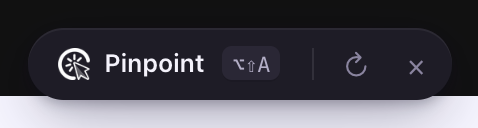
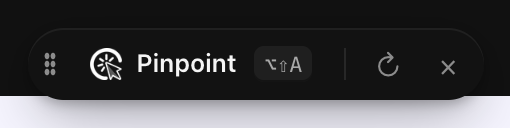
Ink and lime, and a bar you can put anywhere
The overlay switches from graphite + violet to ink panels and a lime
accent, with sky blue for the agent. Lime is faint on a white page, so
the crop marks, the hairline around a pick and the pins carry a thin ink
edge. The popup, the toolbar badge and the iOS picker follow.

The bar can now be dragged anywhere on the page by its grip (or the
pill itself). It stays there on that site, stored as a fraction of the
free space so a resize keeps it on screen and in proportion. A press
that moves less than 5px is still a click, and letting go of a drag
never toggles picking. Choosing a corner in the popup puts it back.

Moves are tracked on the window for the length of a press: a quick drag
leaves the bar within a few pixels, and the bar alone would never hear
about it.

Tests: a drag/persist/click regression test; 80/80 browser tests pass.

diff --git a/extension/content.js b/extension/content.js
@@ -31,23 +31,24 @@
   shadow.innerHTML = `
     <style>
       /* Pinpoint is a layer over somebody else's app, so it keeps one look of its own in every theme:
-         violet-tinted graphite, like an instrument laid on the page, with the brand violet as the
-         only accent and the agent's orange for anything the agent did. The one flourish is the
-         highlight — print crop marks, not a filled box — and the pins, which are numbered drops. */
+         ink panels and a lime accent that stands out on any page, with sky blue for anything the
+         agent did. Lime on a white page is faint, so the marks and pins carry a thin ink edge. The
+         one flourish is the highlight — print crop marks, not a filled box — and the numbered drops. */
       :host {
-        --graphite: #1e1c26;        /* surfaces */
-        --graphite-2: #2a2735;      /* wells, hovers */
-        --graphite-3: #37334a;      /* pressed, rules */
-        --paper: #f4f2fb;           /* text on graphite: 15.6:1 */
-        --paper-dim: #b3aec6;       /* secondary text: 8.4:1 */
-        --paper-faint: #8a849f;     /* hints: 5.0:1 */
-        --accent: #7c66f2;          /* the brand violet, lifted a step for graphite */
-        --accent-hi: #a594ff;       /* violet as text on graphite: 6.7:1 */
-        --accent-ink: #ffffff;
-        --agent: #f29a63;           /* the agent */
+        --graphite: #121212;        /* ink surfaces */
+        --graphite-2: #1f1f1f;      /* wells, hovers */
+        --graphite-3: #2d2d2d;      /* pressed, rules */
+        --paper: #f5f5f5;           /* text on ink: 17.8:1 */
+        --paper-dim: #a8a8a8;       /* secondary text: 8.5:1 */
+        --paper-faint: #8c8c8c;     /* hints: 5.9:1 */
+        --accent: #c6f432;          /* lime */
+        --accent-hi: #c6f432;       /* lime as text on ink: 15.5:1 */
+        --accent-ink: #121212;      /* text on lime */
+        --edge: #121212;            /* the ink edge that keeps lime readable on a white page */
+        --agent: #5cc8ff;           /* the agent */
         --ok: #5fd39a; --danger: #ff7a7f; --warn: #f2c14e;
         --line: rgba(255,255,255,.09);
-        --shadow: 0 1px 0 rgba(255,255,255,.06) inset, 0 10px 30px -6px rgba(10,6,30,.45), 0 2px 6px rgba(10,6,30,.25);
+        --shadow: 0 1px 0 rgba(255,255,255,.06) inset, 0 10px 30px -6px rgba(0,0,0,.45), 0 2px 6px rgba(0,0,0,.25);
[1 lines of base64/hex data omitted]
         --mono: ui-monospace, "SF Mono", SFMono-Regular, Menlo, Consolas, monospace;
         --sans: ui-sans-serif, -apple-system, BlinkMacSystemFont, "Segoe UI", Roboto, sans-serif;
@@ -64,8 +65,9 @@
 
       /* ---------- the highlight: crop marks ---------- */
       .hl { position: fixed; pointer-events: none; display: none; transition: none;
-            outline: 1px solid color-mix(in srgb, var(--accent) 55%, transparent); outline-offset: 2px; }
-      .hl .c { position: absolute; width: 14px; height: 14px; border: 0 solid var(--accent); }
+            outline: 1px solid var(--edge); outline-offset: 2px; box-shadow: 0 0 0 4px color-mix(in srgb, var(--accent) 45%, transparent); }
+      .hl .c { position: absolute; width: 14px; height: 14px; border: 0 solid var(--accent);
+               filter: drop-shadow(0 0 .6px var(--edge)) drop-shadow(0 0 .6px var(--edge)); }
       .hl .c.tl { left: -6px; top: -6px; border-left-width: 3px; border-top-width: 3px; }
       .hl .c.tr { right: -6px; top: -6px; border-right-width: 3px; border-top-width: 3px; }
       .hl .c.bl { left: -6px; bottom: -6px; border-left-width: 3px; border-bottom-width: 3px; }
@@ -79,8 +81,7 @@
       .hl .tag.below { top: auto; bottom: -34px; }
       .hl .tag b { font-weight: 600; color: var(--accent-hi); }
       /* Held, not hovered: the marks go solid ink-violet and the box gets a faint wash. */
-      .hl.selected { outline-color: var(--accent); background: color-mix(in srgb, var(--accent) 6%, transparent); }
-      .hl.selected .c { border-color: var(--accent-hi); }
+      .hl.selected { background: color-mix(in srgb, var(--accent) 10%, transparent); box-shadow: 0 0 0 4px var(--accent); }
       .hl.flash { animation: flash 1s var(--ease); }
       @keyframes flash { 30% { background: color-mix(in srgb, var(--accent) 22%, transparent) } }
 
@@ -94,6 +95,13 @@
       .dock.pos-br { left: auto; right: 16px; }
       .dock.pos-tl { bottom: auto; top: 16px; }
       .dock.pos-tr { bottom: auto; top: 16px; left: auto; right: 16px; }
+      /* Dragged somewhere: left/top come from the drag, the corner classes stop applying. */
+      .dock.free { right: auto !important; bottom: auto !important; }
+      .dock .grip { width: 14px; height: 28px; display: inline-grid; place-items: center; color: var(--paper-faint); cursor: grab; flex: none; }
+      .dock .grip::before { content: ""; width: 6px; height: 12px; background: radial-gradient(currentColor 1px, transparent 1.4px) 0 0 / 3px 4px; }
+      .dock.dragging, .dock.dragging * { cursor: grabbing !important; }
+      .dock.dragging { box-shadow: var(--shadow), 0 0 0 2px var(--accent); }
+      .dock.mini .grip, .dock.armed .grip { display: none; }
       .dock button { display: inline-flex; align-items: center; gap: 7px; border-radius: 999px; height: 28px; padding: 0 11px; line-height: 1; }
       .dock button:hover { background: var(--graphite-2); }
       .dock .toggle { font-weight: 600; letter-spacing: -.005em; }
@@ -130,17 +138,17 @@
          only Stop and the counter take clicks. */
       .dock.armed { pointer-events: none; background: var(--accent); color: var(--accent-ink); }
       .dock.armed .toggle:hover { background: transparent; }
-      .dock.armed .mark { filter: brightness(0) invert(1); animation: pulse 1.6s ease-in-out infinite; }
+      .dock.armed .mark { filter: brightness(0); animation: pulse 1.6s ease-in-out infinite; }
       @keyframes pulse { 50% { opacity: .5 } }
-      .dock.armed .hint { color: rgba(255,255,255,.85); }
+      .dock.armed .hint { color: color-mix(in srgb, var(--accent-ink) 80%, transparent); }
       .dock.armed .label, .dock.armed .sep, .dock.armed .close, .dock.armed .restart { display: none; }
       .dock .stop { display: none; }
       .dock.armed .stop { display: inline-flex; pointer-events: auto; background: var(--graphite); color: var(--paper); font-weight: 600; }
       .dock.armed .stop:hover { background: var(--graphite-2); }
       .dock.armed .stop kbd { background: var(--graphite-2); }
-      .dock.armed .count { pointer-events: auto; color: rgba(255,255,255,.8); }
-      .dock.armed .count b { color: #fff; }
-      .dock.armed .count:hover { background: rgba(255,255,255,.14); }
+      .dock.armed .count { pointer-events: auto; color: color-mix(in srgb, var(--accent-ink) 75%, transparent); }
+      .dock.armed .count b { color: var(--accent-ink); }
+      .dock.armed .count:hover { background: rgba(0,0,0,.1); }
       /* Bridge down: a small pill whose only job is to bring it back. */
       .dock .start { display: none; color: var(--paper-dim); font-weight: 500; }
       .dock.offline .start { display: inline-flex; }
@@ -152,7 +160,8 @@
 
       /* ---------- region marquee ---------- */
       .marquee { position: fixed; display: none; pointer-events: none; z-index: 3;
-                 border: 1px dashed var(--accent); background: color-mix(in srgb, var(--accent) 7%, transparent); }
+                 border: 2px dashed var(--edge); outline: 2px solid color-mix(in srgb, var(--accent) 70%, transparent);
+                 background: color-mix(in srgb, var(--accent) 12%, transparent); }
       .marquee .size { position: absolute; right: 0; bottom: -26px; font: 500 10.5px/1 var(--mono); background: var(--graphite);
                        color: var(--paper-dim); padding: 5px 7px; border-radius: 5px; white-space: nowrap; box-shadow: var(--shadow); }
 
@@ -191,18 +200,18 @@
       .pop .send { background: var(--accent); color: var(--accent-ink); display: inline-flex; gap: 8px; align-items: center;
                    border-radius: 8px; padding: 7px 8px 7px 13px; font: 600 12.5px var(--sans); }
       .pop .send:hover { background: color-mix(in srgb, var(--accent) 88%, #fff); }
-      .pop .send kbd { background: rgba(0,0,0,.2); color: #fff; box-shadow: none; }
+      .pop .send kbd { background: rgba(0,0,0,.14); color: var(--accent-ink); box-shadow: none; }
 
       /* ---------- pins: numbered drops, pointing at the corner they mark ---------- */
       .pin {
         position: fixed; z-index: 2; min-width: 22px; height: 22px; padding: 0 6px; pointer-events: auto; cursor: pointer;
         border-radius: 11px 11px 11px 3px; background: var(--accent); color: var(--accent-ink);
         font: 700 11px/22px var(--sans); text-align: center; font-variant-numeric: tabular-nums;
-        box-shadow: 0 0 0 2px #fff, 0 4px 12px rgba(30,20,90,.35);
+        box-shadow: 0 0 0 2px var(--edge), 0 4px 12px rgba(0,0,0,.3);
         transform: translate(-50%, -50%); transition: transform 120ms var(--ease);
       }
       .pin:hover { transform: translate(-50%, -50%) scale(1.12); }
-      .pin.watched { box-shadow: 0 0 0 2px #fff, 0 0 0 6px color-mix(in srgb, var(--agent) 55%, transparent), 0 4px 12px rgba(30,20,90,.35); }
+      .pin.watched { box-shadow: 0 0 0 2px var(--edge), 0 0 0 6px color-mix(in srgb, var(--agent) 60%, transparent), 0 4px 12px rgba(0,0,0,.3); }
       .pin.new { animation: drop 260ms var(--ease); }
       @keyframes drop { from { transform: translate(-50%, -90%) scale(.6); opacity: 0 } }
       .tip {
@@ -261,7 +270,7 @@
         font-size: 12.5px; box-shadow: var(--shadow); max-width: min(560px, calc(100vw - 32px));
         white-space: nowrap; overflow: hidden; text-overflow: ellipsis; animation: rise 180ms var(--ease);
       }
-      .toast::before { content: ""; display: inline-block; width: 7px; height: 7px; border-radius: 50%; background: var(--accent-hi); margin-right: 9px; vertical-align: 1px; }
+      .toast::before { content: ""; display: inline-block; width: 7px; height: 7px; border-radius: 50%; background: var(--accent); margin-right: 9px; vertical-align: 1px; }
       .toast.action { pointer-events: auto; cursor: pointer; }
       .toast.action::before { background: var(--agent); }
       .toast.action::after { content: " ›"; color: var(--paper-faint); }
@@ -275,6 +284,7 @@
     <div class="marquee"><span class="size"></span></div>
 
     <div class="dock">
+      <span class="grip" title="Drag to move the bar anywhere" aria-hidden="true"></span>
       <button class="toggle" aria-label="Pinpoint: pick an element" aria-pressed="false"><span class="mark" aria-hidden="true"></span><span class="label">Pinpoint</span><span class="hint"></span></button>
       <button class="stop" title="Stop picking">Stop&nbsp;<kbd>Esc</kbd></button>
       <button class="start" title="Start the Pinpoint bridge"><span class="led" aria-hidden="true"></span><span class="st">Bridge off · Start</span></button>
@@ -666,11 +676,71 @@
     if (!r.width) return;
     const vw = window.innerWidth, vh = window.innerHeight, M = 16;
     const pos = ui.dock.className;
-    const wantLeft = /pos-br|pos-tr/.test(pos) ? vw - M - r.width : M;
-    const wantTop = /pos-tl|pos-tr/.test(pos) ? M : vh - M - r.height;
+    let wantLeft = /pos-br|pos-tr/.test(pos) ? vw - M - r.width : M;
+    let wantTop = /pos-tl|pos-tr/.test(pos) ? M : vh - M - r.height;
+    // Dragged somewhere: the same fraction of the free space, so a resize keeps it in proportion and
+    // never off-screen.
+    if (freePos) {
+      wantLeft = 8 + freePos.fx * Math.max(0, vw - r.width - 16);
+      wantTop = 8 + freePos.fy * Math.max(0, vh - r.height - 16);
+    }
     const dx = Math.round(wantLeft - r.left), dy = Math.round(wantTop - r.top);
     if (Math.abs(dx) > 1 || Math.abs(dy) > 1) ui.dock.style.transform = `translate(${dx}px, ${dy}px)`;
   }
+
+  // ---------- moving the bar ----------
+  // Drag it anywhere on the page and it stays there on this site. Stored as a fraction of the free
+  // space rather than pixels, so a narrower window keeps it on screen and in proportion. The popup's
+  // corner setting puts it back in a corner.
+  const POS_KEY = "dockXY:" + location.origin;
+  let freePos = null;
+  function applyFree() { ui.dock.classList.add("free"); ui.dock.style.left = "0px"; ui.dock.style.top = "0px"; }
+  function clearFree() { freePos = null; ui.dock.classList.remove("free"); ui.dock.style.left = ""; ui.dock.style.top = ""; }
+  let drag = null, dragJustEnded = false;
+  // Move and up are watched on the window for the length of the press: a quick drag leaves the bar
+  // within a few pixels, and the bar would never hear about it. Capture only starts once it really
+  // is a drag — capturing on press would retarget the click and the toggle would never get it.
+  function onDragMove(e) {
+    if (!drag || e.pointerId !== drag.id) return;
+    const dx = e.clientX - drag.sx, dy = e.clientY - drag.sy;
+    if (!drag.moved) {
+      if (Math.hypot(dx, dy) < 5) return;   // a click that wobbled, not a drag
+      drag.moved = true;
+      try { ui.dock.setPointerCapture(drag.id); } catch {}
+      ui.dock.classList.add("dragging");
+      clearTimeout(miniTimer);
+      ui.dock.classList.remove("mini");
+    }
+    e.preventDefault();
+    const M = 8, vw = window.innerWidth, vh = window.innerHeight, w = drag.r.width, h = drag.r.height;
+    const x = Math.min(Math.max(M, drag.r.left + dx), vw - w - M);
+    const y = Math.min(Math.max(M, drag.r.top + dy), vh - h - M);
+    freePos = { fx: (x - M) / Math.max(1, vw - w - 2 * M), fy: (y - M) / Math.max(1, vh - h - 2 * M) };
+    applyFree();
+    keepDockOnScreen();
+  }
+  async function onDragEnd(e) {
+    if (!drag || e.pointerId !== drag.id) return;
+    const moved = drag.moved;
+    drag = null;
+    window.removeEventListener("pointermove", onDragMove, true);
+    window.removeEventListener("pointerup", onDragEnd, true);
+    window.removeEventListener("pointercancel", onDragEnd, true);
+    if (!moved) return;
+    ui.dock.classList.remove("dragging");
+    dragJustEnded = true;
+    setTimeout(() => (dragJustEnded = false), 0);
+    try { await chrome.storage.local.set({ [POS_KEY]: freePos }); } catch {}
+  }
+  ui.dock.addEventListener("pointerdown", (e) => {
+    if (!e.isTrusted || e.button !== 0 || picking) return;
+    drag = { id: e.pointerId, sx: e.clientX, sy: e.clientY, r: ui.dock.getBoundingClientRect(), moved: false };
+    window.addEventListener("pointermove", onDragMove, true);
+    window.addEventListener("pointerup", onDragEnd, true);
+    window.addEventListener("pointercancel", onDragEnd, true);
+  });
+  // Letting go fires a click on whatever is under the pointer; that is the end of a drag, not a press.
+  ui.dock.addEventListener("click", (e) => { if (dragJustEnded) { e.stopImmediatePropagation(); e.preventDefault(); } }, true);
 
   // ---------- agent presence ----------
   // The bridge reports what the coding agent last did; the bar shows it the way a shared document
@@ -749,8 +819,11 @@
       else usedRecently = bridgeCode === "token" || Date.now() - ((await chrome.storage.local.get({ lastBridgeAt: 0 })).lastBridgeAt || 0) < RECENT_MS;
     } catch {}
     try {
-      const v = await chrome.storage.local.get(HIDE_KEY);
+      const v = await chrome.storage.local.get([HIDE_KEY, POS_KEY]);
       dockHidden = !!v[HIDE_KEY];
+      const fp = v[POS_KEY];
+      if (fp && Number.isFinite(fp.fx) && Number.isFinite(fp.fy)) { freePos = fp; applyFree(); }
+      else if (!drag) clearFree();
     } catch {}
     try {
       const { dockPos } = await chrome.storage.sync.get({ dockPos: "tr" });

diff --git a/extension/popup.html b/extension/popup.html
@@ -5,15 +5,15 @@
 <style>
   /* The same tokens as the on-page UI (content.js), so the popup and the bar read as one product.
      Dark mode is a redefinition, not a second stylesheet. */
-  /* The same graphite instrument as the overlay on the page, in every theme. */
+  /* The same ink and lime as the overlay on the page, in every theme. */
   :root {
     --sans: ui-sans-serif, -apple-system, BlinkMacSystemFont, "Segoe UI", Roboto, sans-serif;
     --mono: ui-monospace, "SF Mono", Menlo, Consolas, monospace;
-    --ink: #f4f2fb; --ink-dim: #b3aec6; --ink-3: #8a849f;
-    --surface: #1e1c26; --surface-2: #2a2735; --surface-3: #37334a;
-    --line: rgba(255,255,255,.08); --field: rgba(255,255,255,.12);
-    --accent: #7c66f2; --accent-hover: #8d79f5; --accent-text: #a594ff; --accent-ink: #ffffff;
-    --ok: #5fd39a; --bad: #ff7a7f; --agent: #f29a63;
+    --ink: #f5f5f5; --ink-dim: #a8a8a8; --ink-3: #8c8c8c;
+    --surface: #121212; --surface-2: #1f1f1f; --surface-3: #2d2d2d;
+    --line: rgba(255,255,255,.08); --field: rgba(255,255,255,.13);
+    --accent: #c6f432; --accent-hover: #d4f95e; --accent-text: #c6f432; --accent-ink: #121212;
+    --ok: #c6f432; --bad: #ff7a7f; --agent: #5cc8ff;
     --note-ink: #f2c14e; --note-bg: rgba(242,193,78,.08); --note-line: rgba(242,193,78,.25);
     color-scheme: dark;
   }
@@ -23,7 +23,7 @@
   header { display: flex; align-items: center; gap: 8px; padding: 12px 14px; border-bottom: 1px solid var(--line); }
   header h1 { font-size: 14px; font-weight: 600; margin: 0; flex: 1; }
   .dot { width: 8px; height: 8px; border-radius: 50%; background: var(--ink-3); }
-  .dot.on { background: var(--ok); box-shadow: 0 0 0 3px rgba(95,211,154,.18); } .dot.off { background: var(--bad); }
+  .dot.on { background: var(--ok); box-shadow: 0 0 0 3px rgba(198,244,50,.18); } .dot.off { background: var(--bad); }
   .status { font-size: 11px; color: var(--ink-dim); max-width: 190px; white-space: nowrap; overflow: hidden; text-overflow: ellipsis; }
   main { padding: 12px 14px; display: grid; gap: 8px; }
   button { border: 0; border-radius: 8px; padding: 9px 12px; font: 500 13px var(--sans); cursor: pointer; background: var(--surface-2); color: var(--ink); text-align: left; display: flex; align-items: center; gap: 8px; }
@@ -31,9 +31,9 @@
   button:disabled { opacity: .45; cursor: default; }
   button:disabled:hover { background: var(--surface-2); }
   button:focus-visible, input:focus-visible, select:focus-visible, a:focus-visible { outline: 2px solid var(--accent); outline-offset: 2px; }
-  button.primary { background: var(--accent); color: var(--accent-ink); font-weight: 600; padding: 11px 12px; box-shadow: inset 0 1px 0 rgba(255,255,255,.14); }
+  button.primary { background: var(--accent); color: var(--accent-ink); font-weight: 600; padding: 11px 12px; }
   button.primary:hover { background: var(--accent-hover); }
-  button kbd { margin-left: auto; font: 500 11px var(--mono); background: rgba(0,0,0,.22); border-radius: 5px; padding: 3px 6px; }
+  button kbd { margin-left: auto; font: 500 11px var(--mono); background: rgba(0,0,0,.14); border-radius: 5px; padding: 3px 6px; }
   .row { display: grid; grid-template-columns: 1fr 1fr; gap: 8px; }
   .row button { justify-content: center; font-size: 12px; padding: 8px 10px; background: transparent; box-shadow: inset 0 0 0 1px var(--field); }
   .row button:hover { background: var(--surface-2); }

diff --git a/bridge/ios.html b/bridge/ios.html
@@ -5,7 +5,7 @@
 <meta name="viewport" content="width=device-width, initial-scale=1">
 <title>Pinpoint — iOS Simulator</title>
 <style>
-  :root { --bg: #f6f6f4; --fg: #1d1d1f; --muted: #6e6e73; --card: #fff; --line: #d9d9d6; --accent: #6d5ae6; }
+  :root { --bg: #f6f6f4; --fg: #1d1d1f; --muted: #6e6e73; --card: #fff; --line: #d9d9d6; --accent: #c6f432; --on-accent: #121212; }
   @media (prefers-color-scheme: dark) { :root { --bg: #161617; --fg: #f2f2f2; --muted: #9a9a9f; --card: #232325; --line: #3a3a3d; } }
   * { box-sizing: border-box; }
   body { margin: 0; background: var(--bg); color: var(--fg); font: 14px/1.4 -apple-system, system-ui, sans-serif; }
@@ -13,13 +13,13 @@
   header b { font-weight: 600; }
   #status { color: var(--muted); flex: 1; }
   button { font: inherit; padding: 5px 12px; border-radius: 6px; border: 1px solid var(--line); background: var(--card); color: var(--fg); cursor: pointer; }
-  button.primary { background: var(--accent); border-color: var(--accent); color: #fff; }
+  button.primary { background: var(--accent); border-color: var(--accent); color: var(--on-accent); }
   main { display: flex; justify-content: center; padding: 16px; }
   #stage { position: relative; cursor: crosshair; line-height: 0; }
   #shot { max-height: calc(100vh - 90px); max-width: 100%; border-radius: 12px; box-shadow: 0 2px 16px #0003; user-select: none; }
-  .box { position: absolute; border: 2px solid var(--accent); background: color-mix(in srgb, var(--accent) 10%, transparent); pointer-events: none; border-radius: 3px; }
+  .box { position: absolute; border: 2px solid var(--accent); outline: 1px solid #121212; background: color-mix(in srgb, var(--accent) 10%, transparent); pointer-events: none; border-radius: 3px; }
   #tip { position: absolute; transform: translateY(-100%); background: var(--fg); color: var(--bg); font-size: 12px; line-height: 1.3; padding: 2px 6px; border-radius: 4px; white-space: nowrap; pointer-events: none; }
-  .pin { position: absolute; width: 22px; height: 22px; margin: -11px 0 0 -11px; border-radius: 50%; background: var(--accent); color: #fff; font: 600 12px/22px system-ui; text-align: center; pointer-events: auto; cursor: help; }
+  .pin { position: absolute; width: 22px; height: 22px; margin: -11px 0 0 -11px; border-radius: 50%; background: var(--accent); color: var(--on-accent); box-shadow: 0 0 0 2px #121212; font: 600 12px/22px system-ui; text-align: center; pointer-events: auto; cursor: help; }
   #pop { position: absolute; width: 280px; background: var(--card); border: 1px solid var(--line); border-radius: 10px; padding: 10px; line-height: 1.4; box-shadow: 0 6px 24px #0004; z-index: 2; cursor: default; }
   #pop .what { color: var(--muted); font-size: 12px; margin-bottom: 6px; overflow-wrap: anywhere; }
   #pop textarea { width: 100%; height: 70px; font: inherit; padding: 6px; border-radius: 6px; border: 1px solid var(--line); background: var(--bg); color: var(--fg); resize: vertical; }

diff --git a/extension/popup.js b/extension/popup.js
@@ -229,6 +229,8 @@ api.storage.sync.get({ port: 7331, dockPos: "tr" }).then(({ port, dockPos }) => 
 $("#dockPos").onchange = async (e) => {
   await api.storage.sync.set({ dockPos: e.target.value });
   const tab = await activeTab();
+  // Choosing a corner is also how a bar that was dragged somewhere goes back to one.
+  try { if (tab?.url) await api.storage.local.remove("dockXY:" + new URL(tab.url).origin); } catch {}
   if (tab?.id) api.tabs.sendMessage(tab.id, { type: "showDock" }).catch(() => {});
 };
 $("#port").onchange = async (e) => {

diff --git a/extension/background.js b/extension/background.js
@@ -148,8 +148,8 @@ async function health() {
 async function updateBadge(count) {
   try {
     await api.action.setBadgeText({ text: count > 0 ? String(count) : "" });
-    await api.action.setBadgeBackgroundColor({ color: "#6d5ae6" });
-    await api.action.setBadgeTextColor?.({ color: "#ffffff" });
+    await api.action.setBadgeBackgroundColor({ color: "#c6f432" });
+    await api.action.setBadgeTextColor?.({ color: "#121212" });
   } catch {}
 }
 
